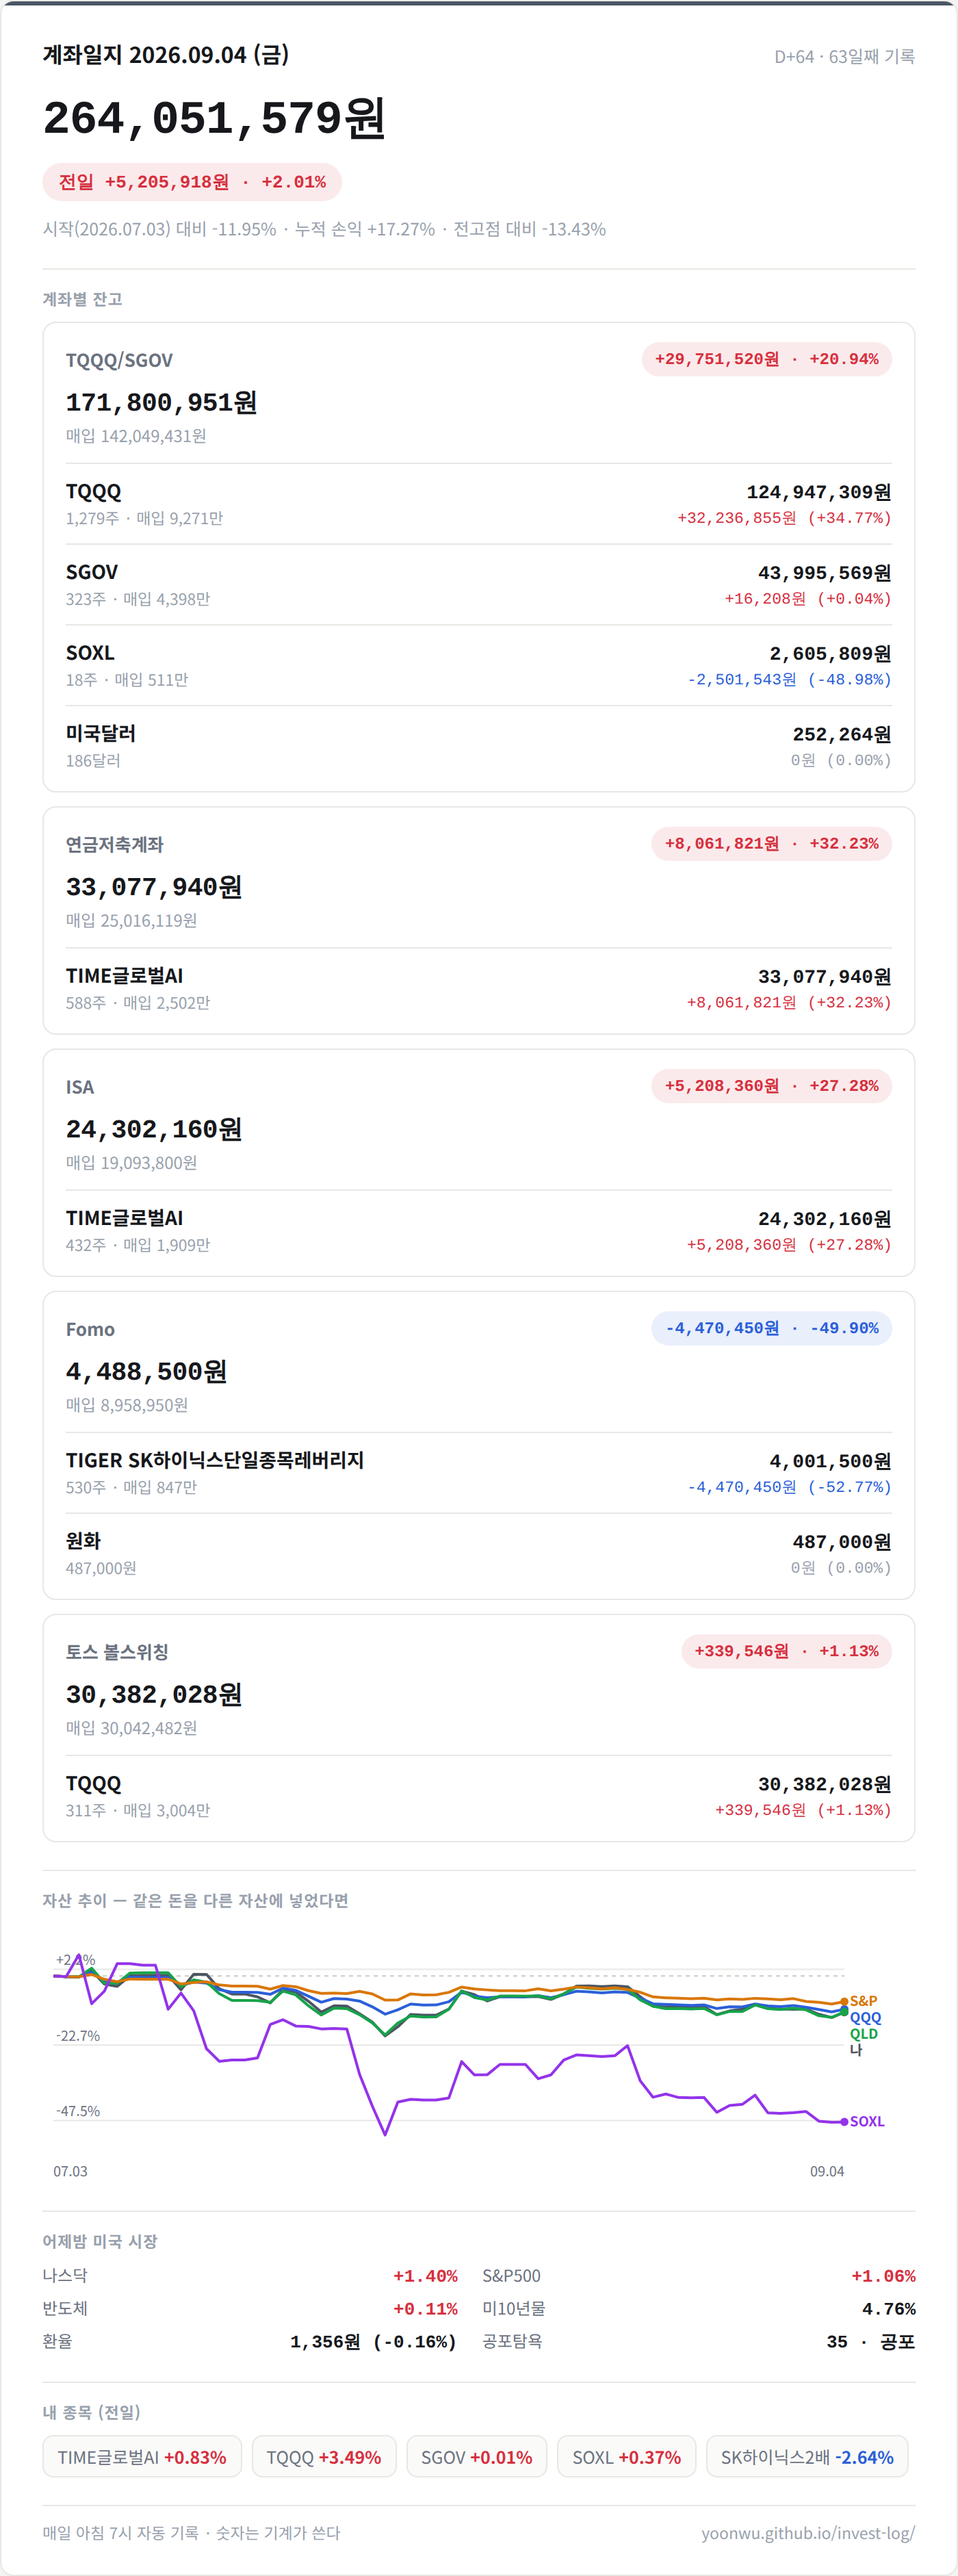
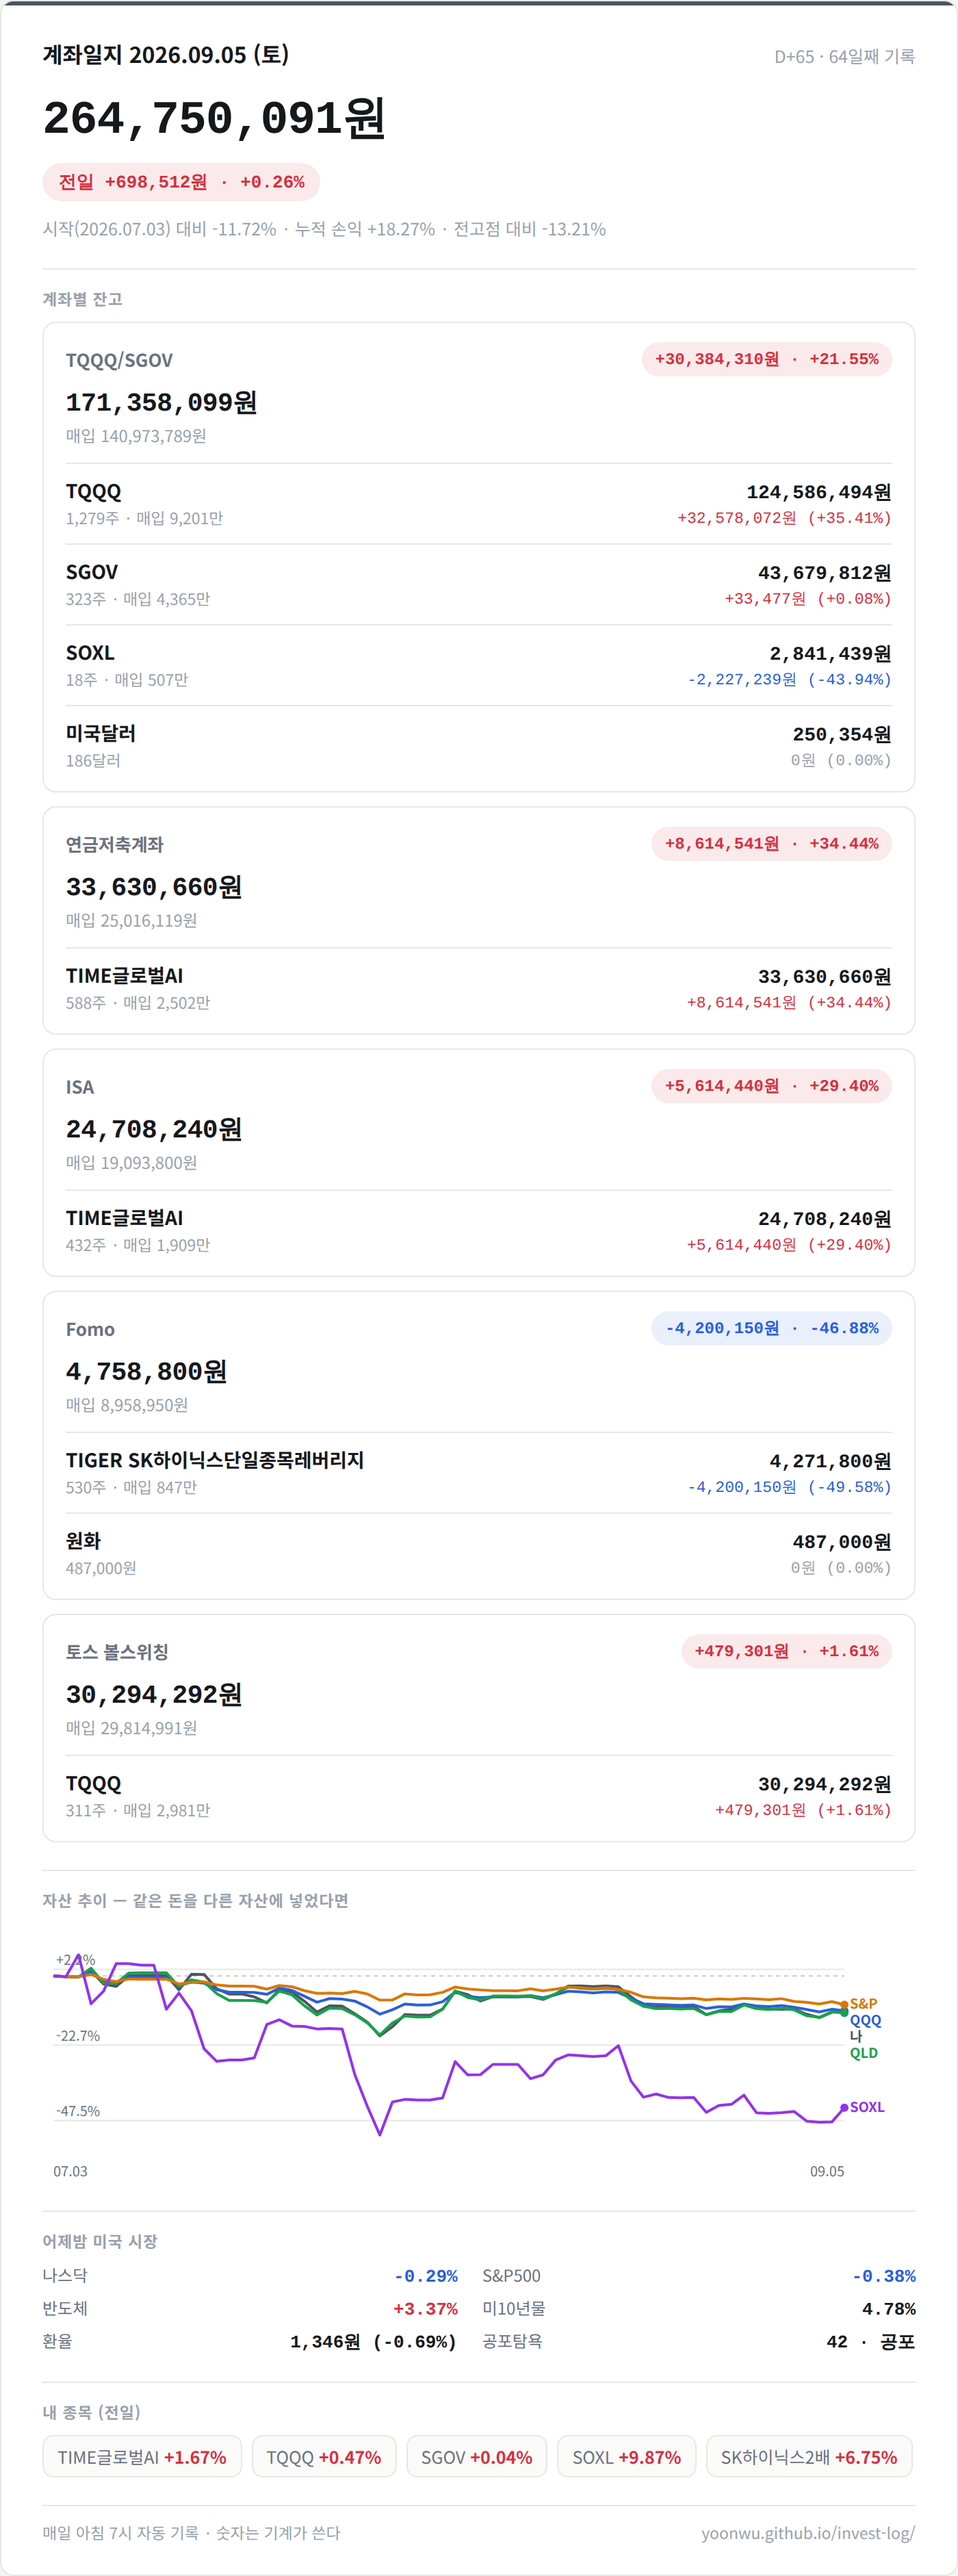
chore: 일지 스냅샷 2026-09-05

diff --git a/_posts/2026-09-05-journal.md b/_posts/2026-09-05-journal.md
@@ -1,0 +1,67 @@
+---
+layout: journal
+category: 일지
+title: "계좌일지 2026.09.05 (토) D+65"
+---
+<article class="entry">
+  <div class="entry-head">
+    <div class="entry-date">09.05 (토)
+      <span class="dplus">D+65</span></div>
+    <button class="copy-btn" id="copy-journal">복사</button>
+  </div>
+  <div class="entry-total">
+    <span class="tot">264,750,091원</span>
+    <span class="pill up">+698,512원 · +0.26%</span>
+  </div>
+  <div class="entry-accts">TQQQ/SGOV 171,358,099원 · 연금저축계좌 33,630,660원 · ISA 24,708,240원 · Fomo 4,758,800원 · 토스 볼스위칭 30,294,292원<br>
+    시작 대비 <b class="down">-11.72%</b> ·
+    전고점 대비 <b class="down">-13.21%</b> (언더워터 60일)</div>
+
+  <div class="sec-label">어젯밤 미국 시장</div>
+  <div class="mgrid">
+    <span>나스닥</span><b class="down">-0.29%</b>
+    <span>S&amp;P500</span><b class="down">-0.38%</b>
+    <span>반도체</span><b class="up">+3.37%</b>
+    <span>미10년물</span><b>4.78%</b>
+    <span>환율</span><b>1,346원</b>
+    <span>공포탐욕</span><b>42 공포</b>
+  </div>
+
+  <div class="sec-label">내 종목</div>
+  <div class="chips"><span class="chip">TIME AI <b class="up">+1.67%</b></span><span class="chip">TQQQ <b class="up">+0.47%</b></span><span class="chip">SGOV <b class="up">+0.04%</b></span><span class="chip">SOXL <b class="up">+9.87%</b></span><span class="chip">SK하이닉스2배 <b class="up">+6.75%</b></span></div>
+
+  <div class="sec-label">같은 돈이면 (시작일 대비)</div>
+  <div class="chips">
+    <span class="chip">나 <b class="down">-11.72%</b></span>
+    <span class="chip">QQQ <b class="down">-11.46%</b></span>
+    <span class="chip">QLD <b class="down">-12.18%</b></span>
+  </div>
+
+  
+  
+</article>
+<textarea id="copy-src" style="position:absolute;left:-9999px" readonly>📒 계좌일지 2026.09.05 (토) D+65
+
+[계좌] 총 264,750,091원 (전일 ▲ 698,512원, +0.26%)
+ · TQQQ/SGOV 171,358,099원 (+21.55%)
+ · 연금저축계좌 33,630,660원 (+34.44%)
+ · ISA 24,708,240원 (+29.40%)
+ · Fomo 4,758,800원 (-46.88%)
+ · 토스 볼스위칭 30,294,292원 (+1.61%)
+시작일 대비 -11.72% · 전고점 대비 -13.21%
+
+[시장] 나스닥 -0.29% · S&amp;P500 -0.38% · 반도체 +3.37% · 미10년물 4.78%
+456600 +1.67% · TQQQ +0.47% · SGOV +0.04% · SOXL +9.87% · 0195S0 +6.75% · 환율 1,346원(-0.69%)
+공포탐욕지수 42 (공포)
+같은 돈이면: QQQ -11.46% · QLD -12.18% · 나 -11.72%
+
+원본(조작 불가 커밋 이력 포함): https://yoonwu.github.io/invest-log/</textarea>
+<script>
+document.getElementById("copy-journal").onclick = async () => {
+  const btn = document.getElementById("copy-journal");
+  try {
+    await navigator.clipboard.writeText(document.getElementById("copy-src").value);
+    btn.textContent = "복사됨 ✓"; setTimeout(() => btn.textContent = "복사", 1500);
+  } catch { btn.textContent = "실패"; }
+};
+</script>
